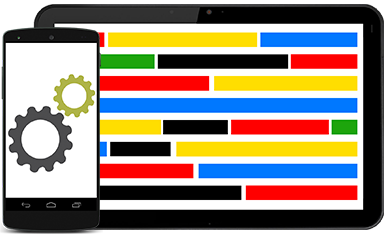
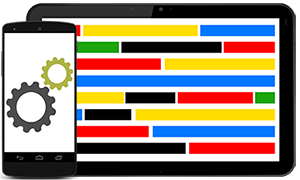
diminuição na imagem de erro mobile

diff --git a/index.html b/index.html
@@ -16,8 +16,8 @@
 				}
 			}
 		</style>
-        <link rel="stylesheet" type="text/css" media="screen and (max-width: 1079px)" href="css/index_small.css"/>
-		<link rel="stylesheet" type="text/css" media="screen and (min-width: 1080px)" href="css/index_large.css"/>
+		<link rel="stylesheet" type="text/css" media="screen and (min-width: 1080px") href="css/index_large.css"/>
+		<link rel="stylesheet" type="text/css" media="screen and (max-width: 1079px") href="css/index_small.css"/>
 	</head>
 	<body>
 		<header>
